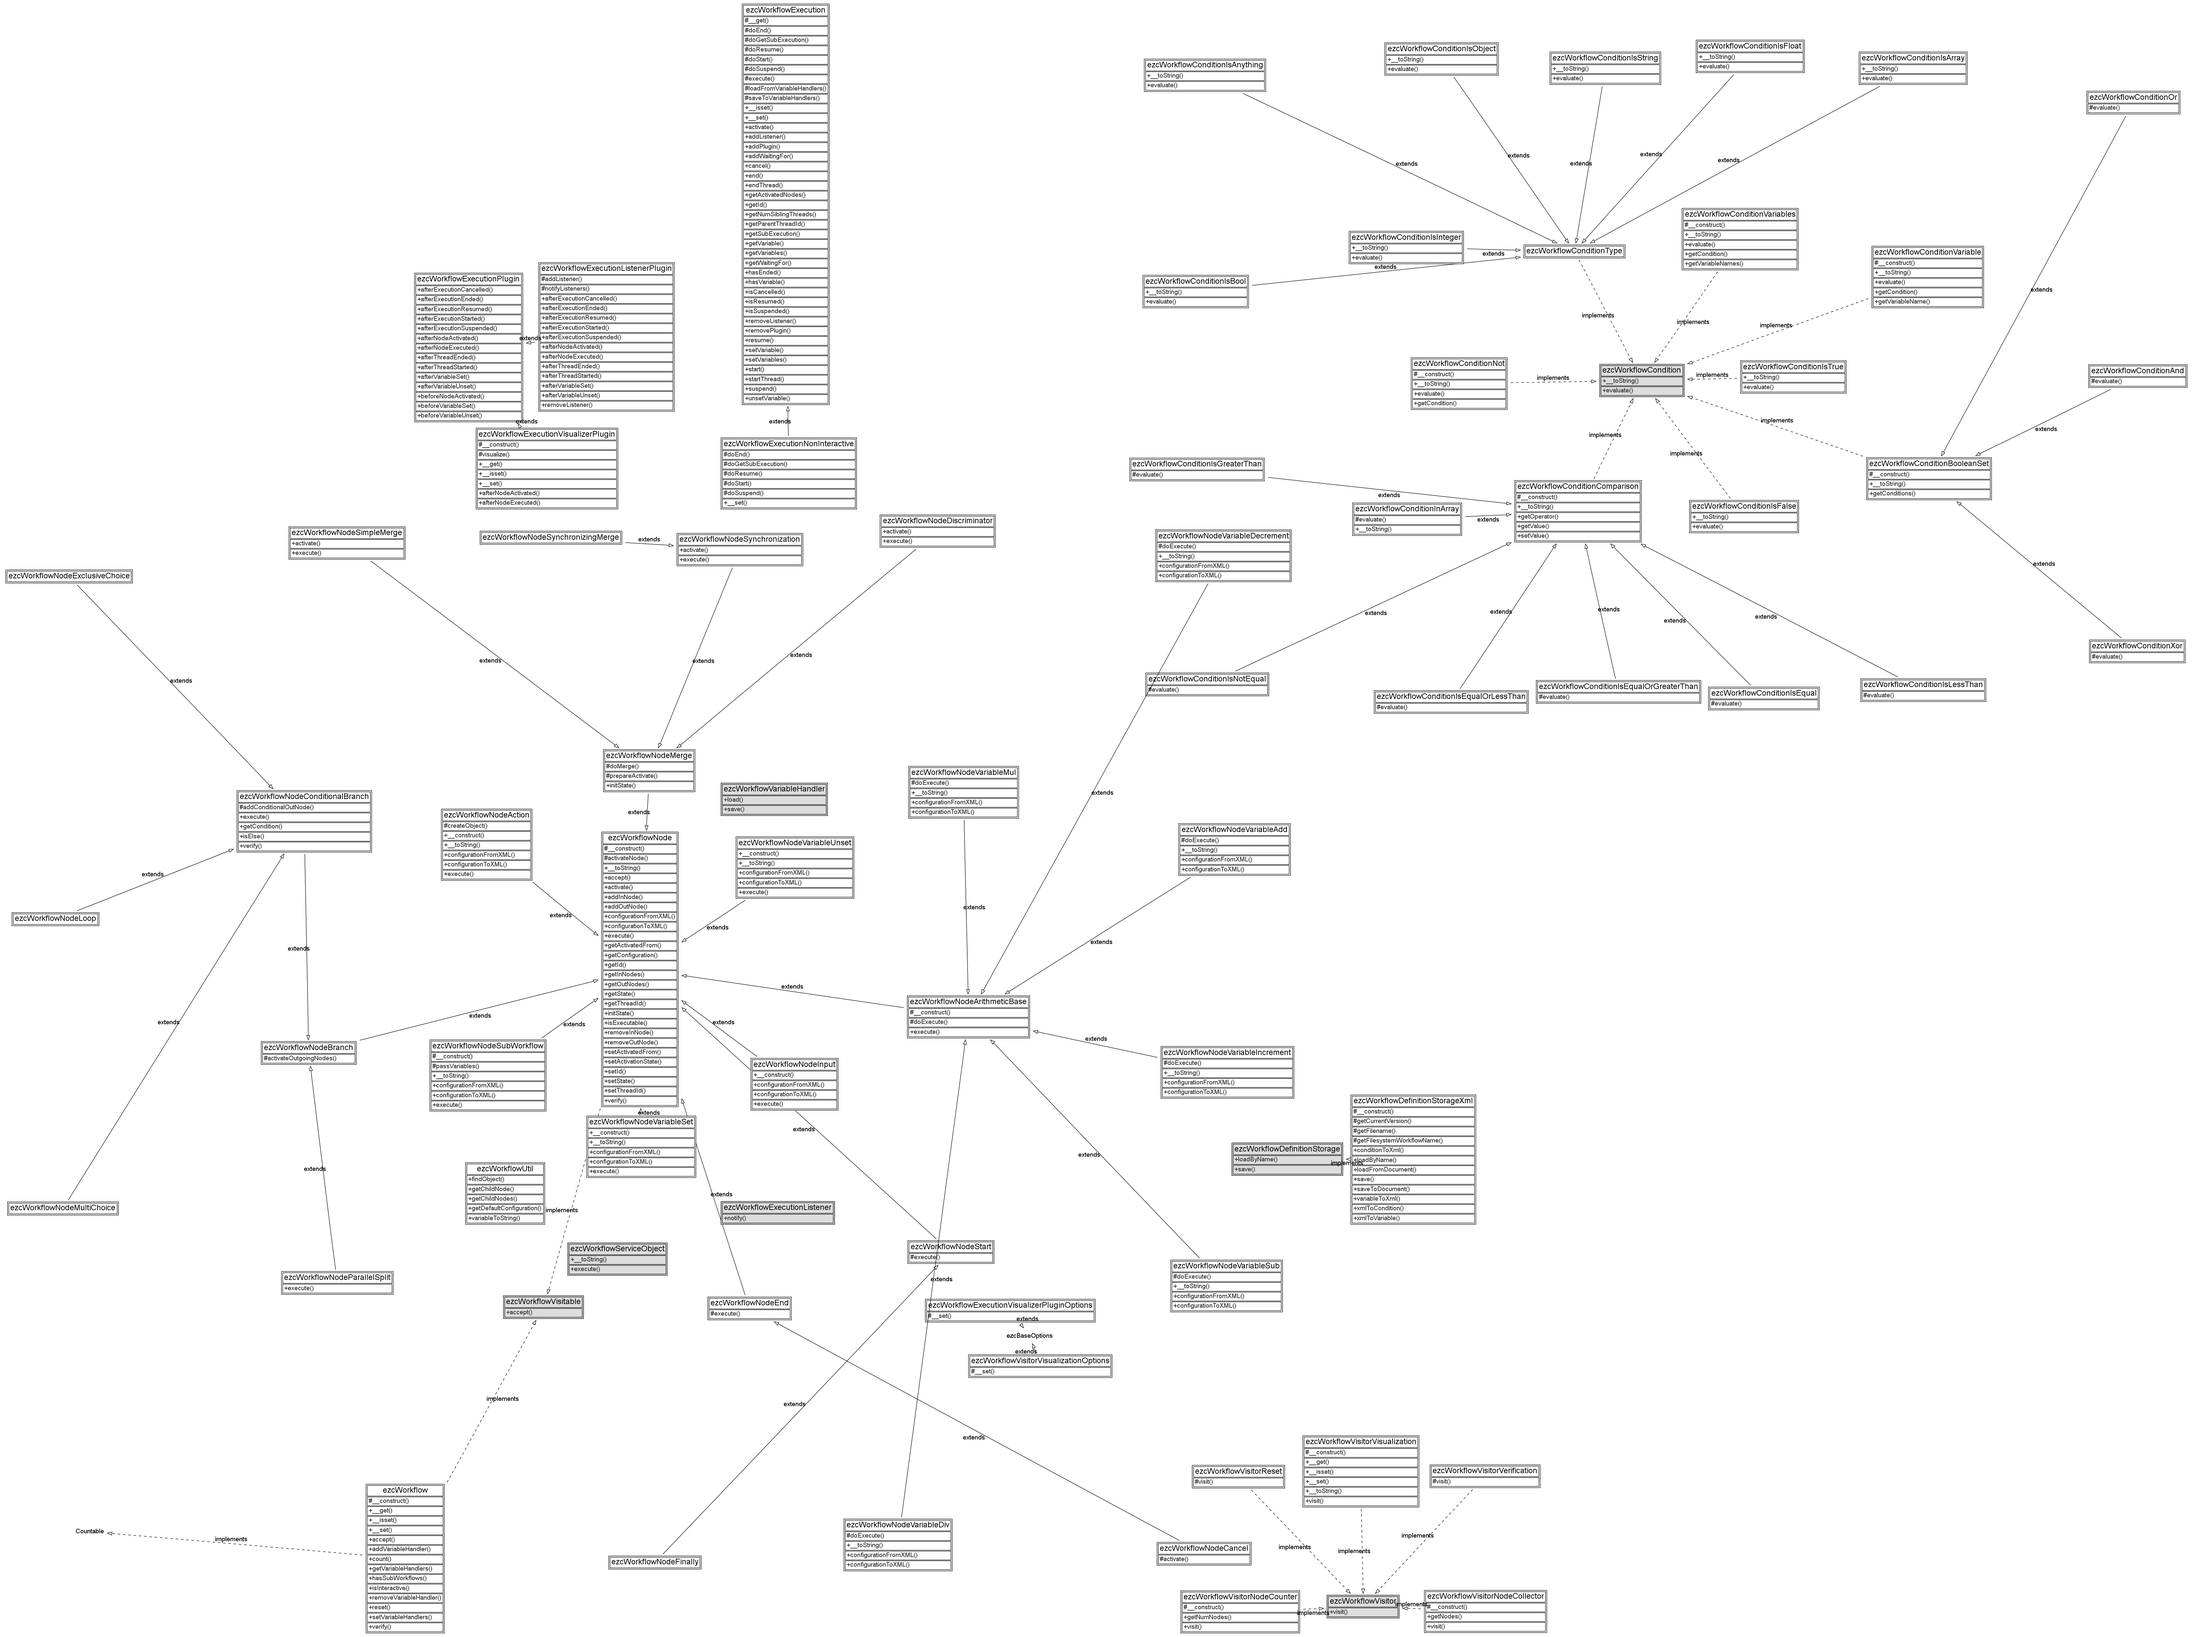
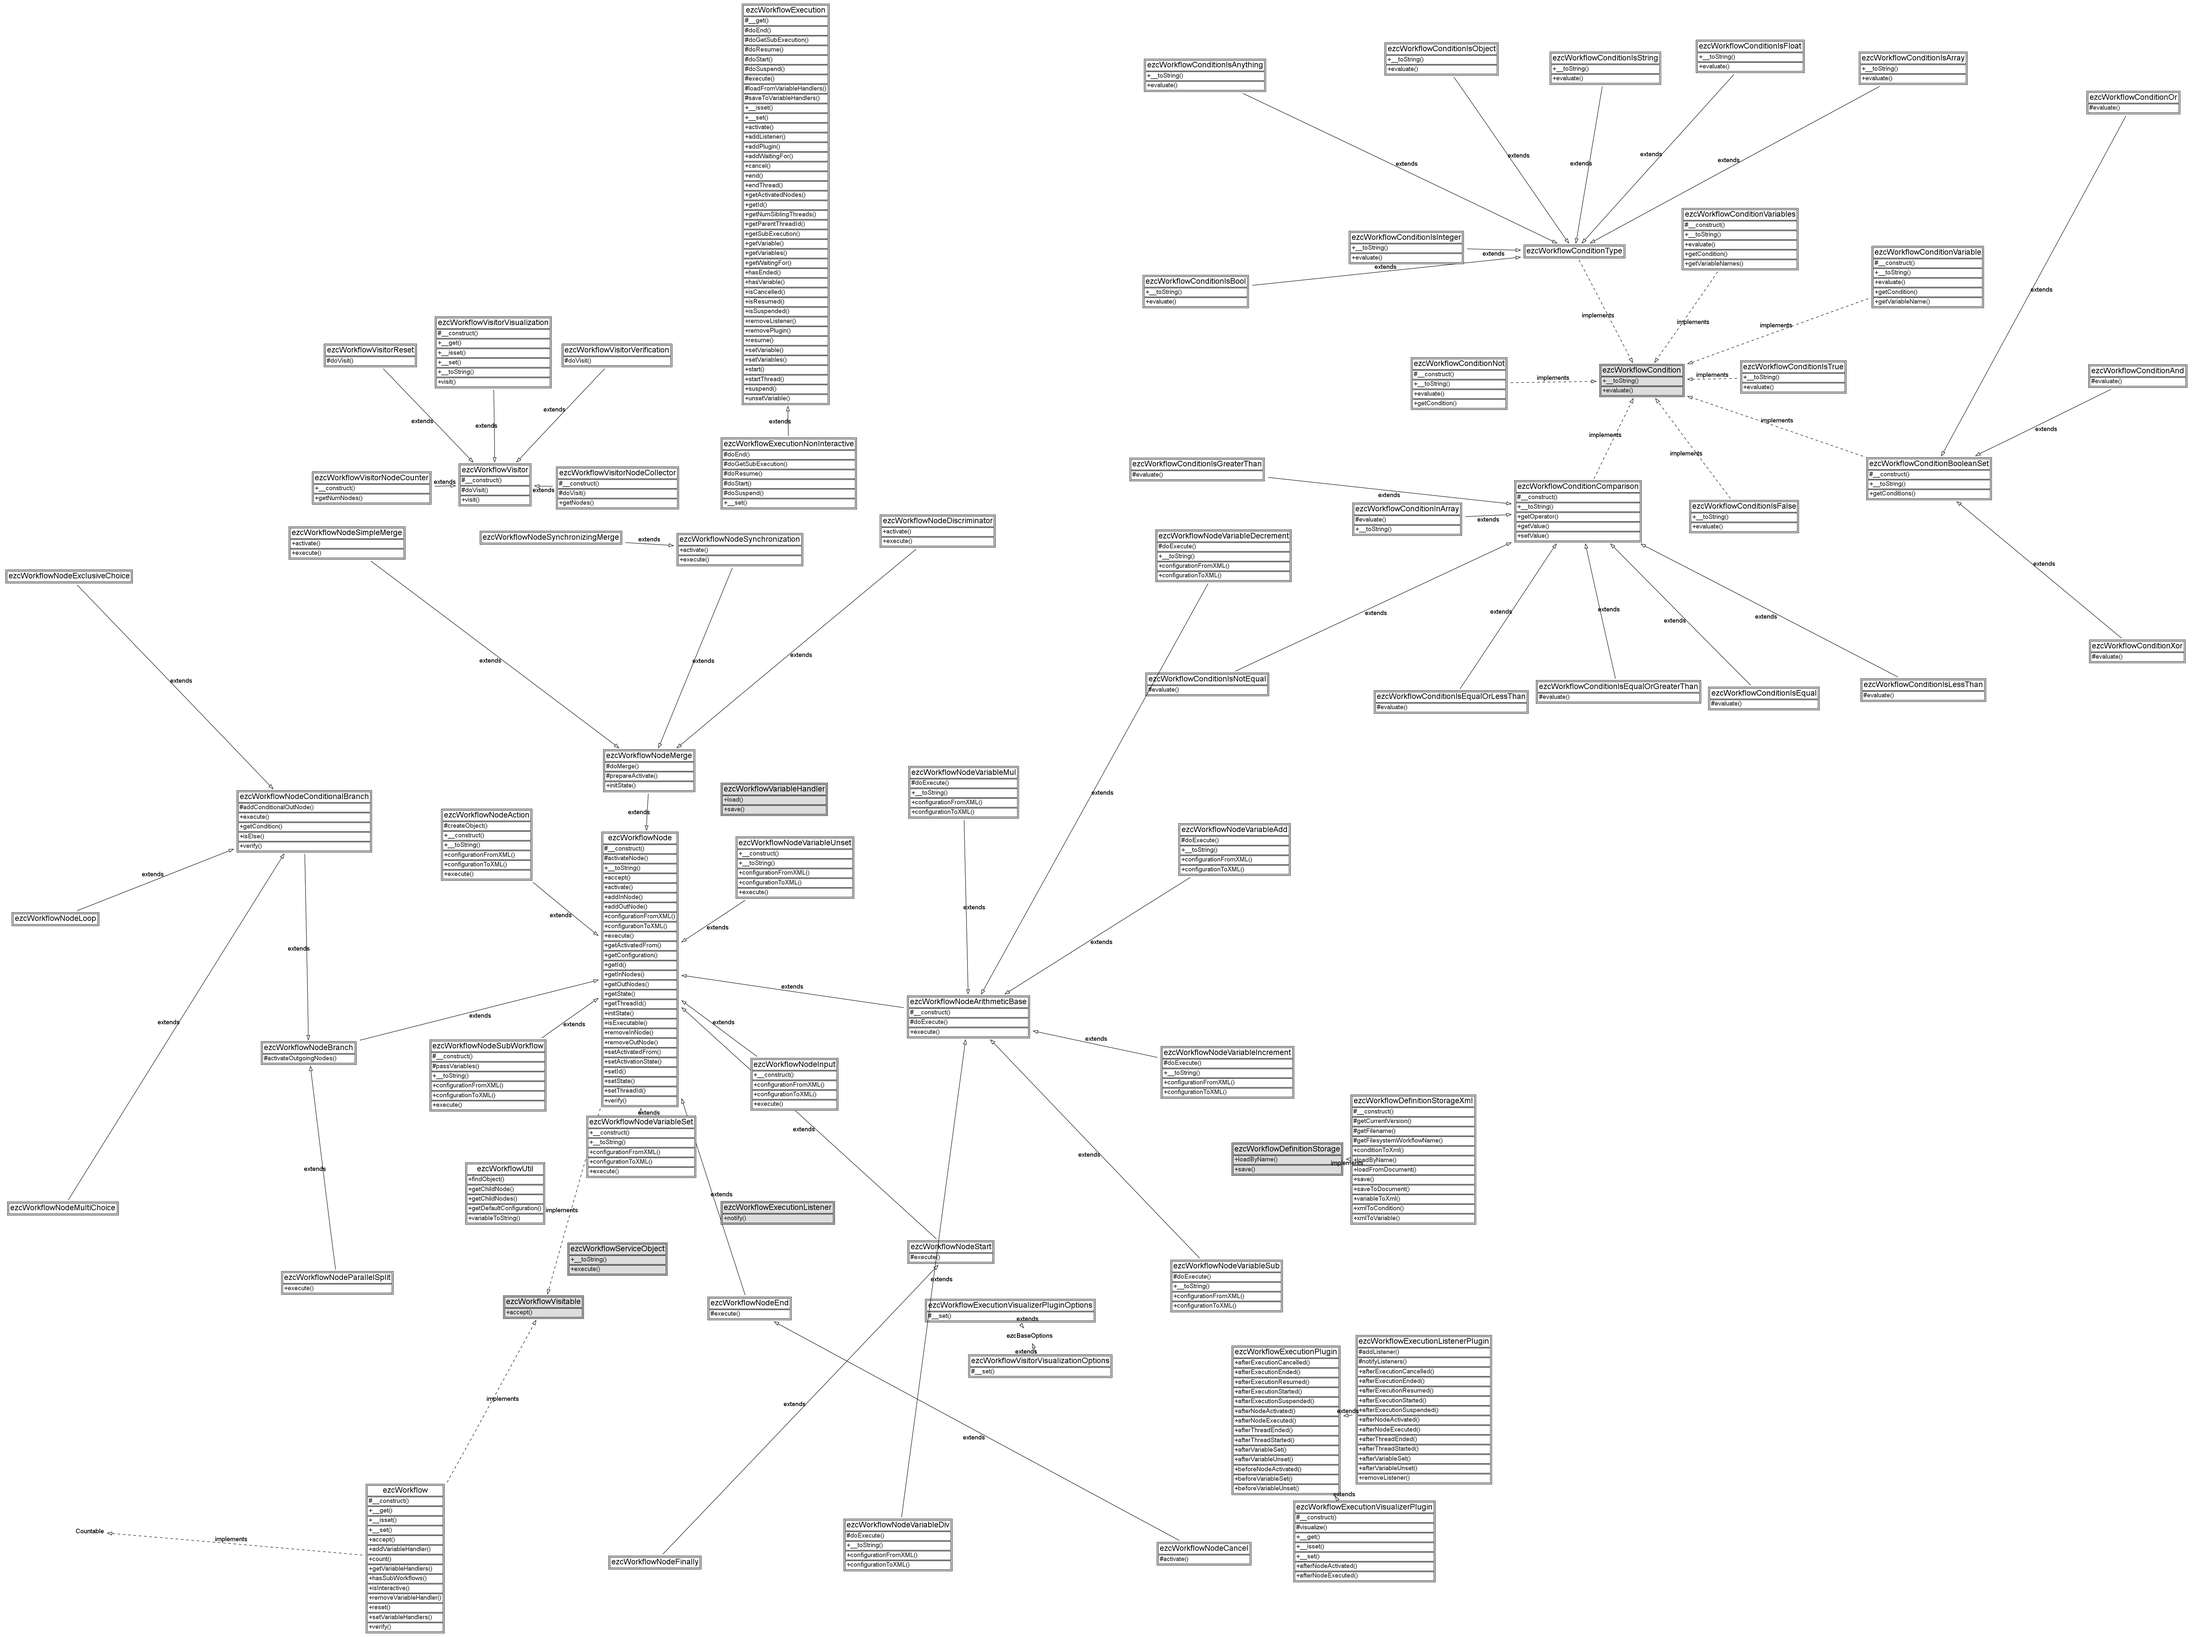
- Refactor to increase code reuse.
git-svn-id: http://svn.ez.no/svn/ezcomponents/trunk/Workflow@10848 bc0e7bdc-f0fc-0310-8ff6-f601c06e1256

Changed region(s): [[0.53, 0.8079, 0.7171, 1.0], [0.1559, 0.1554, 0.3118, 0.3107]]

diff --git a/src/visitors/node_collector.php b/src/visitors/node_collector.php
@@ -15,7 +15,7 @@
  * @version //autogen//
  * @ignore
  */
-class ezcWorkflowVisitorNodeCollector implements ezcWorkflowVisitor
+class ezcWorkflowVisitorNodeCollector extends ezcWorkflowVisitor
 {
     /**
      * Holds the start node object.
@@ -67,33 +67,22 @@ class ezcWorkflowVisitorNodeCollector implements ezcWorkflowVisitor
     protected $sorted = false;
 
     /**
-     * Holds the visited nodes.
-     *
-     * @var SplObjectStorage
-     */
-    protected $visited;
-
-    /**
-     * Constructs a new
+     * Constructor.
      *
      * @param ezcWorkflow $workflow
      */
     public function __construct( ezcWorkflow $workflow )
     {
-        $this->visited = new SplObjectStorage;
+        parent::__construct();
         $workflow->accept( $this );
     }
 
     /**
-     * Visits the node, adds it to the list of nodes.
-     *
-     * Returns true if the node was added. False if it was already in the list
-     * of nodes.
+     * Perform the visit.
      *
      * @param ezcWorkflowVisitable $visitable
-     * @return boolean
      */
-    public function visit( ezcWorkflowVisitable $visitable )
+    protected function doVisit( ezcWorkflowVisitable $visitable )
     {
         if ( $visitable instanceof ezcWorkflow )
         {
@@ -112,13 +101,6 @@ class ezcWorkflowVisitorNodeCollector implements ezcWorkflowVisitor
 
         else if ( $visitable instanceof ezcWorkflowNode )
         {
-            if ( $this->visited->contains( $visitable ) )
-            {
-                return false;
-            }
-
-            $this->visited->attach( $visitable );
-
             if ( $visitable !== $this->startNode &&
                  $visitable !== $this->endNode &&
                  $visitable !== $this->finallyNode )
@@ -133,8 +115,6 @@ class ezcWorkflowVisitorNodeCollector implements ezcWorkflowVisitor
 
             $this->nodes[$id] = $visitable;
         }
-
-        return true;
     }
 
     /**

diff --git a/src/interfaces/visitor.php b/src/interfaces/visitor.php
@@ -1,6 +1,6 @@
 <?php
 /**
- * File containing the ezcWorkflowVisitor interface.
+ * File containing the ezcWorkflowVisitor class.
  *
  * @package Workflow
  * @version //autogen//
@@ -9,7 +9,7 @@
  */
 
 /**
- * Interface for visitor implementations that want to process
+ * Abstract base class for visitor implementations that want to process
  * a workflow using the Visitor design pattern.
  *
  * visit() is called on each of the nodes in the workflow in a top-down,
@@ -21,8 +21,23 @@
  * @package Workflow
  * @version //autogen//
  */
-interface ezcWorkflowVisitor
+abstract class ezcWorkflowVisitor
 {
+    /**
+     * Holds the visited nodes.
+     *
+     * @var SplObjectStorage
+     */
+    protected $visited;
+
+    /**
+     * Constructor.
+     */
+    public function __construct()
+    {
+        $this->visited = new SplObjectStorage;
+    }
+
     /**
      * Visit the $visitable.
      *
@@ -31,6 +46,30 @@ interface ezcWorkflowVisitor
      * @param ezcWorkflowVisitable $visitable
      * @return bool
      */
-    public function visit( ezcWorkflowVisitable $visitable );
+    public function visit( ezcWorkflowVisitable $visitable )
+    {
+        if ( $visitable instanceof ezcWorkflowNode )
+        {
+            if ( $this->visited->contains( $visitable ) )
+            {
+                return false;
+            }
+
+            $this->visited->attach( $visitable );
+        }
+
+        $this->doVisit( $visitable );
+
+        return true;
+    }
+
+    /**
+     * Perform the visit.
+     *
+     * @param ezcWorkflowVisitable $visitable
+     */
+    protected function doVisit( ezcWorkflowVisitable $visitable )
+    {
+    }
 }
 ?>

diff --git a/src/visitors/verification.php b/src/visitors/verification.php
@@ -29,7 +29,7 @@
  * @package Workflow
  * @version //autogen//
  */
-class ezcWorkflowVisitorVerification implements ezcWorkflowVisitor
+class ezcWorkflowVisitorVerification extends ezcWorkflowVisitor
 {
     /**
      * Holds the number of start nodes encountered during visiting.
@@ -46,23 +46,11 @@ class ezcWorkflowVisitorVerification implements ezcWorkflowVisitor
     protected $numFinallyNodes = 0;
 
     /**
-     * Holds the id of each node that has been visited already.
-     *
-     * @var array
-     */
-    protected $visited = array();
-
-    /**
-     * Visits the node, checks contraints and calls verify on each node.
-     *
-     * Returns true if the node was verified. False if it was already
-     * verified.
+     * Perform the visit.
      *
      * @param ezcWorkflowVisitable $visitable
-     * @throws ezcWorkflowInvalidWorkflowException
-     * @return boolean
      */
-    public function visit( ezcWorkflowVisitable $visitable )
+    protected function doVisit( ezcWorkflowVisitable $visitable )
     {
         if ( $visitable instanceof ezcWorkflow )
         {
@@ -97,19 +85,8 @@ class ezcWorkflowVisitorVerification implements ezcWorkflowVisitor
 
         if ( $visitable instanceof ezcWorkflowNode )
         {
-            $id = $visitable->getId();
-
-            if ( isset( $this->visited[$id] ) )
-            {
-                return false;
-            }
-
-            $this->visited[$id] = true;
-
             $visitable->verify();
         }
-
-        return true;
     }
 }
 ?>

diff --git a/src/visitors/node_counter.php b/src/visitors/node_counter.php
@@ -15,15 +15,8 @@
  * @version //autogen//
  * @ignore
  */
-class ezcWorkflowVisitorNodeCounter implements ezcWorkflowVisitor
+class ezcWorkflowVisitorNodeCounter extends ezcWorkflowVisitor
 {
-    /**
-     * Holds the visited nodes.
-     *
-     * @var array(ezcWorkflowVisitable)
-     */
-    protected $nodes = array();
-
     /**
      * Constructor.
      *
@@ -31,34 +24,8 @@ class ezcWorkflowVisitorNodeCounter implements ezcWorkflowVisitor
      */
     public function __construct( ezcWorkflow $workflow )
     {
+        parent::__construct();
         $workflow->accept( $this );
-    }
-
-    /**
-     * Visits the node, adds it to the list of nodes.
-     *
-     * Returns true if the node was added. False if it was already in the list
-     * of nodes.
-     *
-     * @param ezcWorkflowVisitable $visitable
-     * @return boolean
-     */
-    public function visit( ezcWorkflowVisitable $visitable )
-    {
-        if ( $visitable instanceof ezcWorkflowNode )
-        {
-            foreach( $this->nodes as $node )
-            {
-                if ( $node === $visitable )
-                {
-                    return false;
-                }
-            }
-
-            $this->nodes[] = $visitable;
-        }
-
-        return true;
     }
 
     /**
@@ -68,7 +35,7 @@ class ezcWorkflowVisitorNodeCounter implements ezcWorkflowVisitor
      */
     public function getNumNodes()
     {
-        return count( $this->nodes );
+        return count( $this->visited );
     }
 }
 ?>

diff --git a/src/visitors/visualization.php b/src/visitors/visualization.php
@@ -25,7 +25,7 @@
  * @package Workflow
  * @version //autogen//
  */
-class ezcWorkflowVisitorVisualization implements ezcWorkflowVisitor
+class ezcWorkflowVisitorVisualization extends ezcWorkflowVisitor
 {
     /**
      * Holds the displayed strings for each of the nodes.
@@ -40,13 +40,6 @@ class ezcWorkflowVisitorVisualization implements ezcWorkflowVisitor
      * @var array( id => array( ezcWorkflowNode ) )
      */
     protected $edges = array();
-
-    /**
-     * Holds the id of each node that has been visited already.
-     *
-     * @var array
-     */
-    protected $visited = array();
 
     /**
      * Holds the name of the workflow.
@@ -67,6 +60,7 @@ class ezcWorkflowVisitorVisualization implements ezcWorkflowVisitor
      */
     public function __construct()
     {
+        parent::__construct();
         $this->options = new ezcWorkflowVisitorVisualizationOptions;
     }
 
@@ -150,12 +144,12 @@ class ezcWorkflowVisitorVisualization implements ezcWorkflowVisitor
         {
             $id = $visitable->getId();
 
-            if ( isset( $this->visited[$id] ) )
+            if ( $this->visited->contains( $visitable ) )
             {
                 return false;
             }
 
-            $this->visited[$id] = true;
+            $this->visited->attach( $visitable );
 
             if ( in_array( $id, $this->options['highlightedNodes'] ) )
             {

diff --git a/src/visitors/reset.php b/src/visitors/reset.php
@@ -24,41 +24,19 @@
  * @package Workflow
  * @version //autogen//
  */
-class ezcWorkflowVisitorReset implements ezcWorkflowVisitor
+class ezcWorkflowVisitorReset extends ezcWorkflowVisitor
 {
     /**
-     * Holds the id of each node that has been visited already.
-     *
-     * @var array
-     */
-    protected $visited = array();
-
-    /**
-     * Visits the node and resets it.
-     *
-     * Returns true if the node was reset. False if it was already
-     * reset.
+     * Perform the visit.
      *
      * @param ezcWorkflowVisitable $visitable
-     * @return boolean
      */
-    public function visit( ezcWorkflowVisitable $visitable )
+    protected function doVisit( ezcWorkflowVisitable $visitable )
     {
         if ( $visitable instanceof ezcWorkflowNode )
         {
-            $id = $visitable->getId();
-
-            if ( isset( $this->visited[$id] ) )
-            {
-                return false;
-            }
-
-            $this->visited[$id] = true;
-
             $visitable->initState();
         }
-
-        return true;
     }
 }
 ?>
